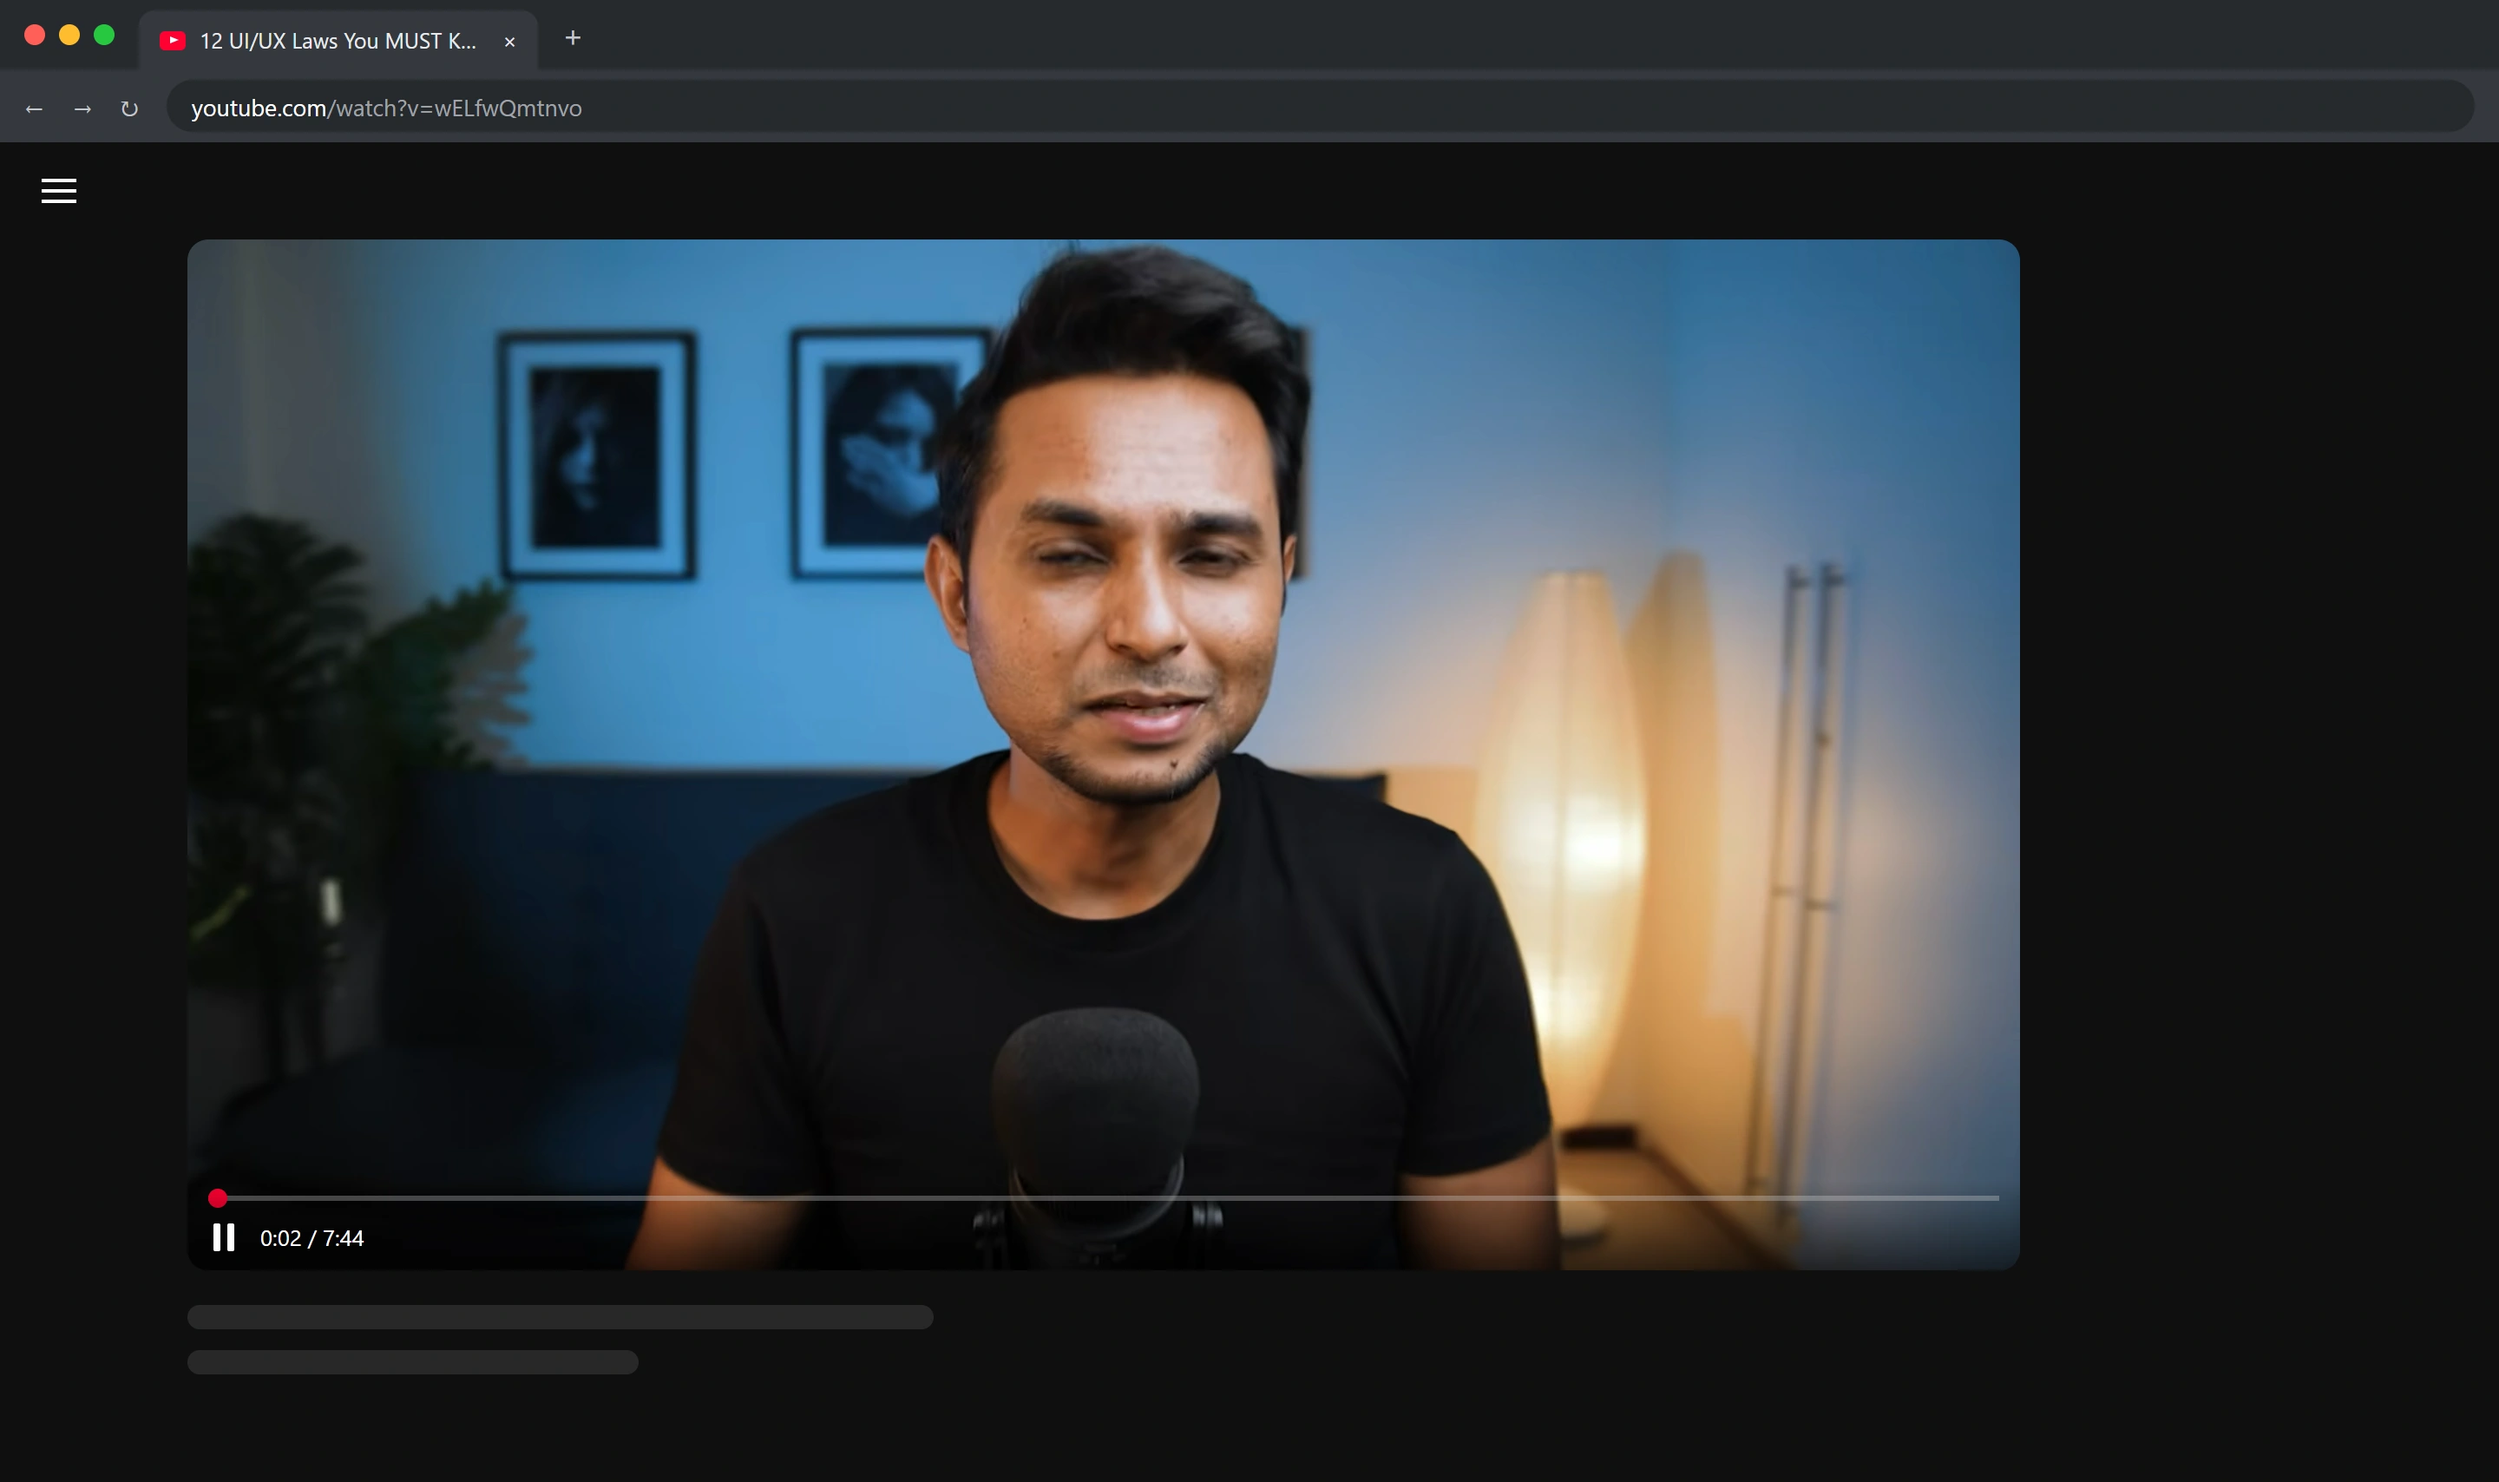
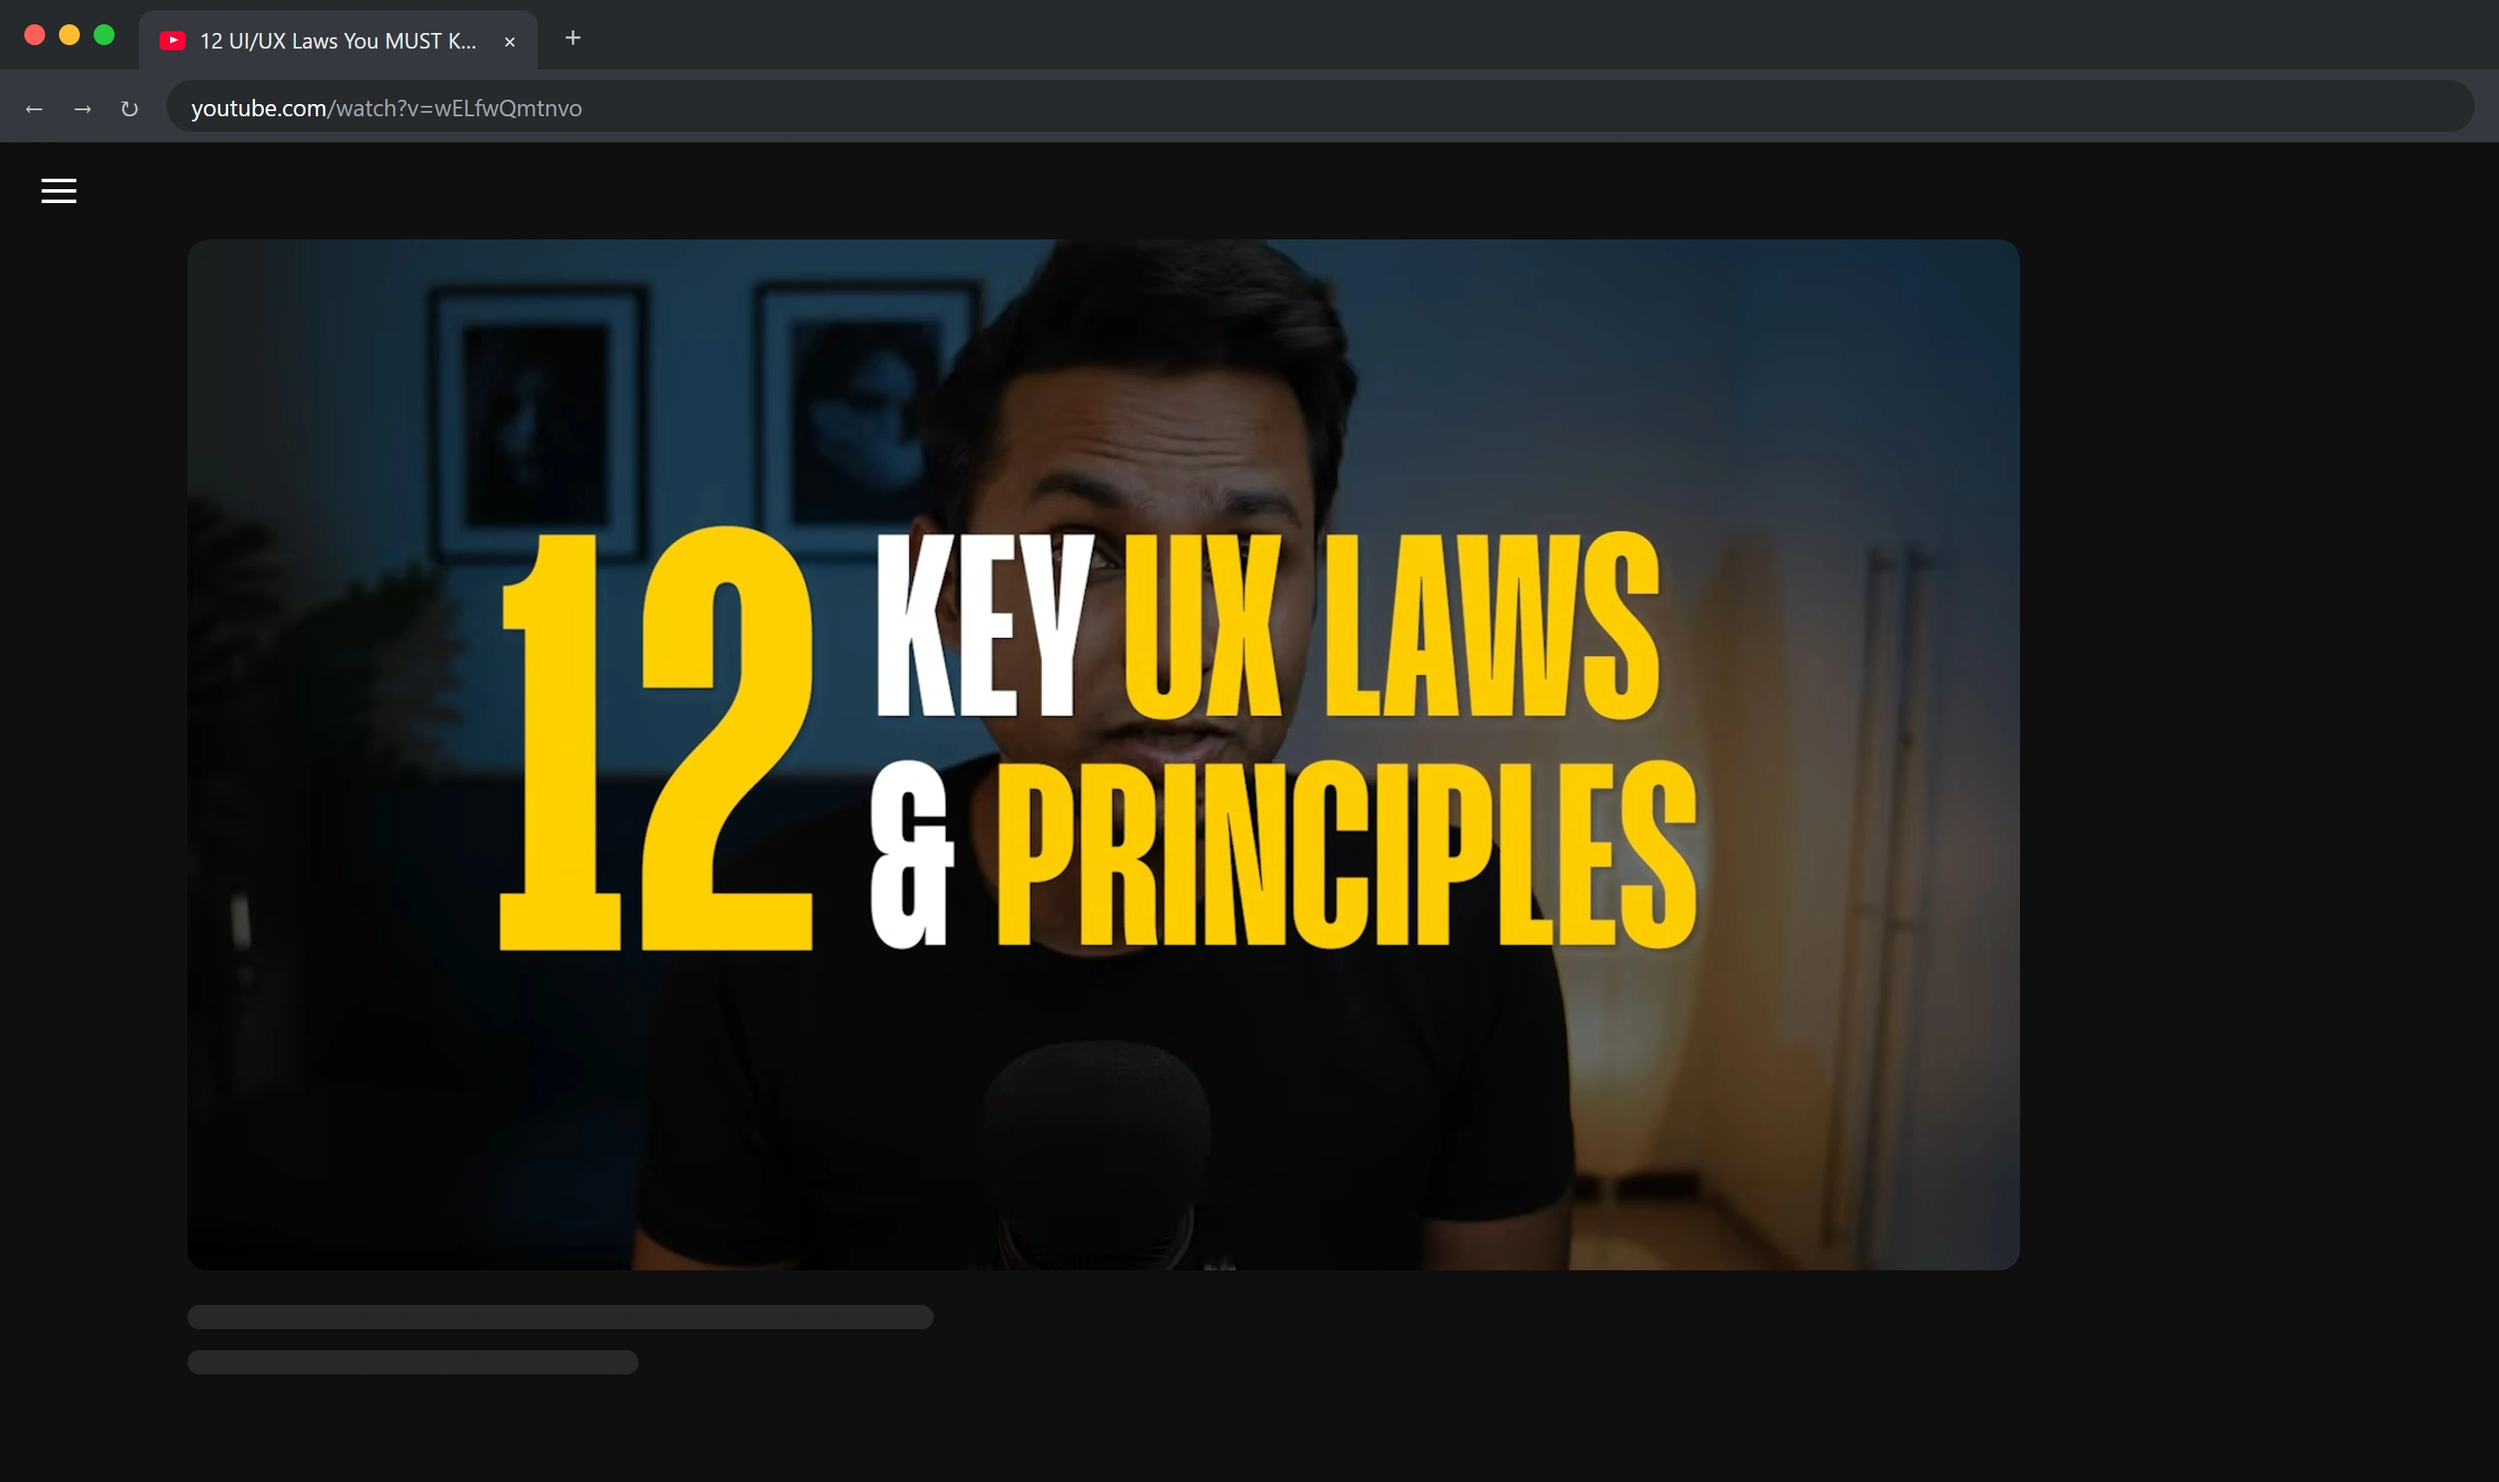
ProPilot: a short looping clip of the YouTube lecture in the laptop, with a credit; no white at dark laptop corners

diff --git a/src/content/case-studies.ts b/src/content/case-studies.ts
@@ -497,7 +497,7 @@ export const caseStudies: CaseStudy[] = [
           "I designed on-demand, timestamped summaries and Key Terms. Instead of replacing the source content, these features act as an index back into it. Follow-up questions inside the summaries keep the mentorship layer available even during revision.",
           "Impact: 15.5K summaries and Key-Term sets generated, with a 25% download rate. Users also described using summaries to filter long videos and revise before important events.",
         ],
-        visuals: [{ kind: "browser", shots: [shot(pp("sol4-summary-screen.webp"), "A time-stamped summary with key terms")] }],
+        visuals: [{ kind: "browser", shots: [clip(pp("sol4-summary-screen.webp"), pp("sol4-clip.webp"), "A long-form lecture playing on YouTube: Saptarshi Prakash introduces 12 key UX laws and principles")], caption: "Video: 12 UI/UX Laws You MUST KNOW, by Saptarshi Prakash" }],
       },
       {
         title: "Three production iterations",

diff --git a/src/app/(site)/globals.css b/src/app/(site)/globals.css
@@ -1316,7 +1316,9 @@ html[data-theme="dark"] .bd-stroke, .th-surface--dark .bd-stroke { opacity: 0.28
   100% { transform: translateY(0); }
 }
 .dv-laptop__screen { position: relative; aspect-ratio: 16 / 10; overflow: hidden; border-radius: 6px; background: #111113; container-type: inline-size; }
-.dv-laptop__page { position: absolute; inset: 3.2cqw 0 0; overflow: hidden; background: #fff; }
+/* transparent, so no white shows at the rounded corners of dark screens; letterboxed pages get white behind */
+.dv-laptop__page { position: absolute; inset: 3.2cqw 0 0; overflow: hidden; }
+.dv-laptop__page:has(> img.object-contain) { background: #fff; }
 html[data-motion="paused"] .dv-scroll__page { animation: none; }
 @media (prefers-reduced-motion: reduce) { .dv-scroll__page { animation: none; } }
 .dv-browser__url { position: absolute; left: 50%; width: 34%; height: 46%; border-radius: 6px; background: #e9e7e3; transform: translateX(-50%); }

diff --git a/src/content/media-dims.ts b/src/content/media-dims.ts
@@ -48,6 +48,7 @@ export const mediaDims: Record<string, [number, number, number]> = {
   "/work/ai-mentor/exact/sol3-quiz-screen.webp": [1800, 1067, 0],
   "/work/ai-mentor/exact/sol3-quiz.png": [1024, 796, 0],
   "/work/ai-mentor/exact/sol3-video.png": [566, 404, 0],
+  "/work/ai-mentor/exact/sol4-clip.webp": [1280, 759, 0],
   "/work/ai-mentor/exact/sol4-detail1.png": [512, 682, 0],
   "/work/ai-mentor/exact/sol4-detail2.png": [646, 946, 0],
   "/work/ai-mentor/exact/sol4-summary-screen.webp": [2880, 1708, 0],
